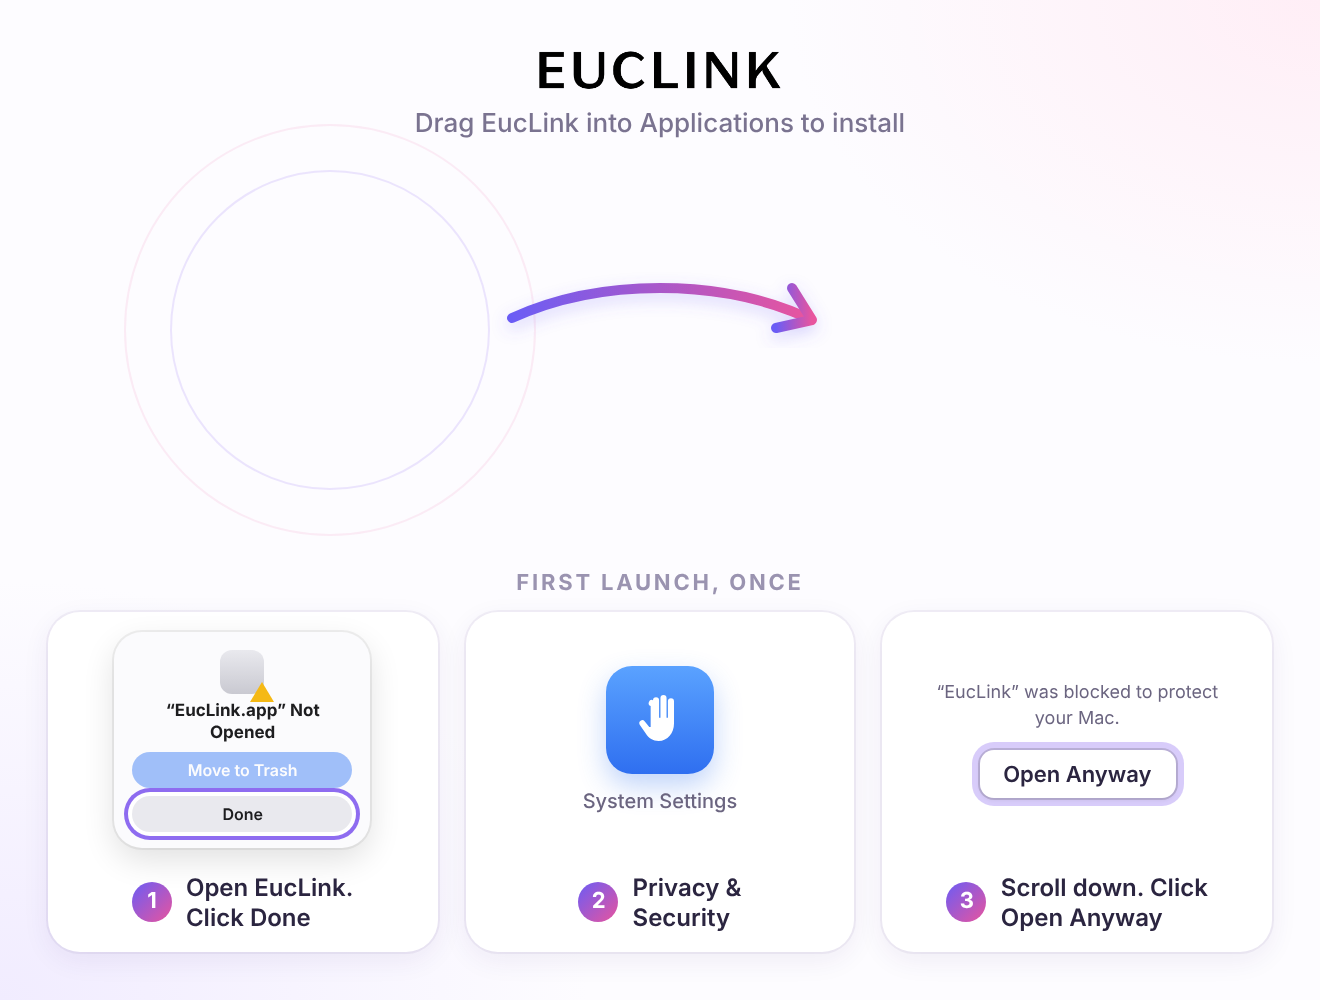
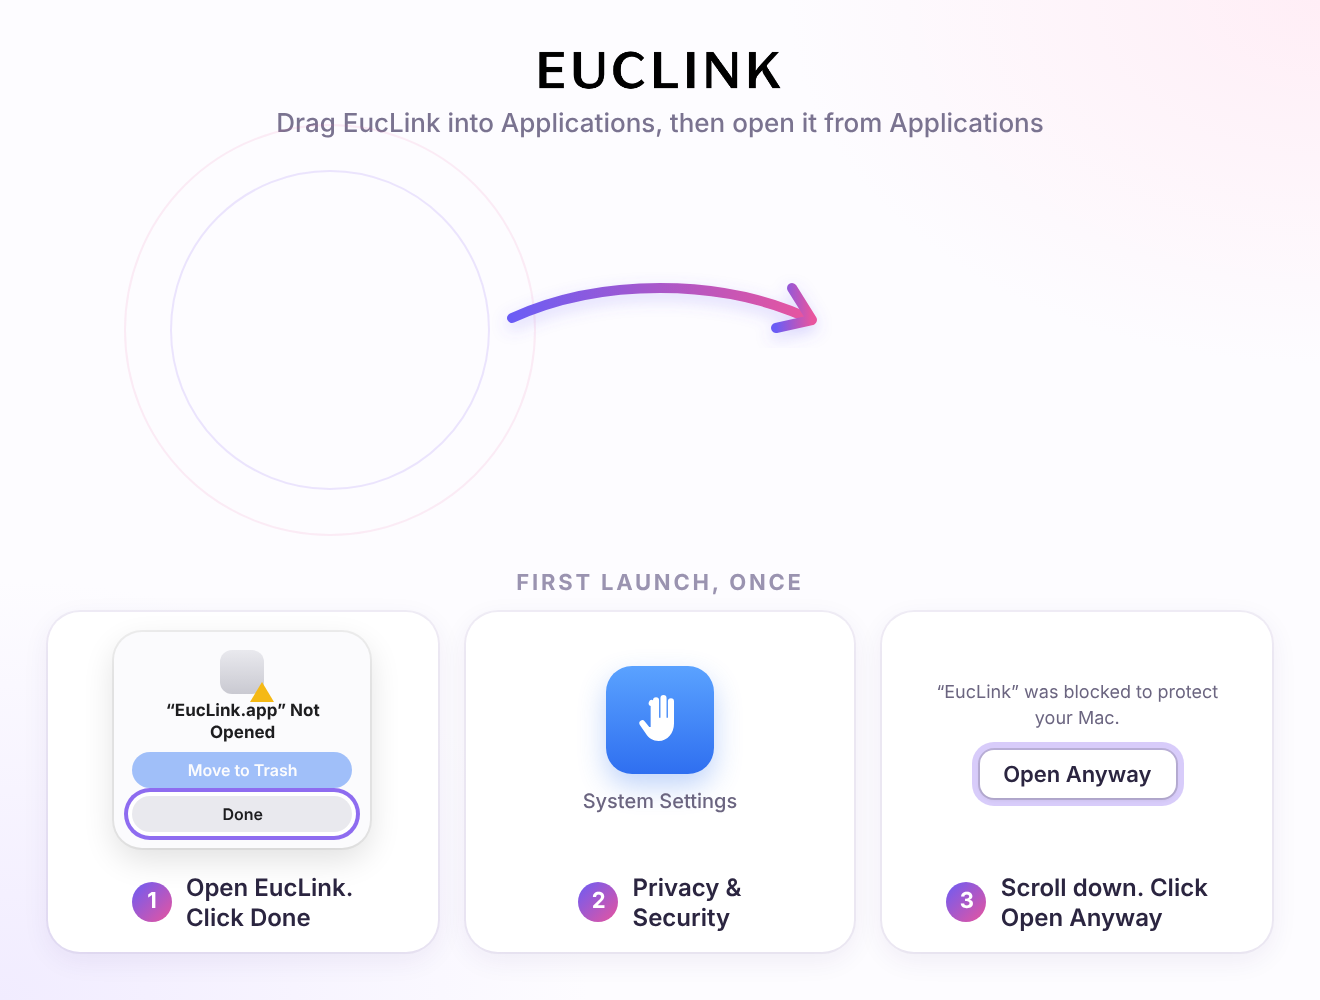
Copy to Applications from a translocated app
Opening EucLink straight from the disk image makes macOS run a hidden read-only
copy (App Translocation). Copy to Applications then tried to copy that temporary
path and failed with no such file. It now asks macOS for the original location,
copies that, removes the download label from the copy so it does not warn twice,
and relaunches it. If the original is gone because the disk image was closed, it
says to drag EucLink into Applications instead. The welcome step explains the case
in plain words, and the disk image window now says to open EucLink from
Applications.

Changed region(s): [[0.2174, 0.093, 0.5591, 0.155], [0.5902, 0.093, 0.7765, 0.155]]

diff --git a/Sources/AppState.swift b/Sources/AppState.swift
@@ -83,6 +83,8 @@ struct GuideContext {
     var inApplications = true
     var appFolder = "/Applications"
     var moveError: String?
+    /// True when macOS runs a hidden temporary copy (App Translocation).
+    var translocated = false
     var bluetooth: PermState = .notDetermined
     var devices: [GuideDevice] = []
     var selectedDevice: String?
@@ -263,19 +265,50 @@ final class AppState: ObservableObject {
         }
     }
 
+    /// True when macOS runs a hidden, read-only temporary copy of the app. That is App
+    /// Translocation: it happens when a downloaded app is opened before it was moved,
+    /// for example straight from the disk image.
+    var isTranslocated: Bool { Bundle.main.bundlePath.contains("/AppTranslocation/") }
+
+    /// Where the app really is. For a translocated app, asks macOS for the original
+    /// location; the temporary copy itself cannot be copied.
+    private func originalBundlePath() -> String {
+        let here = Bundle.main.bundlePath
+        guard isTranslocated,
+              let lib = dlopen("/System/Library/Frameworks/Security.framework/Security", RTLD_LAZY),
+              let sym = dlsym(lib, "SecTranslocateCreateOriginalPathForURL") else { return here }
+        typealias Original = @convention(c) (CFURL, UnsafeMutablePointer<Unmanaged<CFError>?>?) -> Unmanaged<CFURL>?
+        let original = unsafeBitCast(sym, to: Original.self)
+        guard let url = original(Bundle.main.bundleURL as CFURL, nil)?.takeRetainedValue() as URL? else { return here }
+        return url.path
+    }
+
     /// Copies the app to /Applications and relaunches from there. macOS ties the
     /// permissions to the app, so it is best done before granting any.
     func moveToApplications() {
-        let src = Bundle.main.bundlePath
+        let src = originalBundlePath()
         let dst = "/Applications/EucLink.app"
         let fm = FileManager.default
+        guard fm.fileExists(atPath: src), !src.contains("/AppTranslocation/") else {
+            moveError = "EucLink can't copy itself from here. Quit EucLink, open the disk image again, "
+                + "drag EucLink into Applications, and open it from Applications."
+            return
+        }
         do {
             if fm.fileExists(atPath: dst) { try fm.removeItem(atPath: dst) }
             try fm.copyItem(atPath: src, toPath: dst)
         } catch {
-            moveError = "Could not copy to Applications: \(error.localizedDescription)"
+            moveError = "Could not copy to Applications: \(error.localizedDescription). "
+                + "Drag EucLink into Applications in Finder instead."
             return
         }
+        // You already allowed this download once. Without its "downloaded" label the copy
+        // opens without a second Gatekeeper warning.
+        let x = Process()
+        x.executableURL = URL(fileURLWithPath: "/usr/bin/xattr")
+        x.arguments = ["-dr", "com.apple.quarantine", dst]
+        try? x.run()
+        x.waitUntilExit()
         launchAndQuit(dst)
     }
 
@@ -419,6 +452,7 @@ final class AppState: ObservableObject {
         c.inApplications = isInApplications
         c.appFolder = (Bundle.main.bundlePath as NSString).deletingLastPathComponent
         c.moveError = moveError
+        c.translocated = isTranslocated
         c.bluetooth = bluetoothState
         c.devices = pairedDeviceList()
         c.needsAccessibility = guideNeedsAccessibility

diff --git a/Sources/Guide.swift b/Sources/Guide.swift
@@ -305,7 +305,9 @@ struct GuideStepView: View {
                 Card {
                     Label("Copy EucLink to Applications first", systemImage: "exclamationmark.triangle.fill")
                         .font(.system(size: 13, weight: .semibold)).foregroundStyle(Brand.warn)
-                    Text("It is running from \(ctx.appFolder). macOS ties permissions to the app's location, so granting them here and moving it later means granting them again.")
+                    Text(ctx.translocated
+                         ? "You opened EucLink before moving it, so macOS is running a temporary copy. Permissions granted now would be lost. Copy it to Applications first."
+                         : "It is running from \(ctx.appFolder). macOS ties permissions to the app's location, so granting them here and moving it later means granting them again.")
                         .font(.system(size: 12)).foregroundStyle(.secondary)
                         .fixedSize(horizontal: false, vertical: true)
                     Button("Copy to Applications and Relaunch", action: actions.moveToApplications)

diff --git a/dmg/background.html b/dmg/background.html
@@ -31,7 +31,7 @@ body{width:660px;height:500px;font-family:Inter,-apple-system,sans-serif;color:#
 .btn{font-size:11px;font-weight:600;background:#fff;border-radius:7px;padding:5px 12px;box-shadow:0 0 0 1px rgba(0,0,0,.14),0 1px 2px rgba(0,0,0,.08),0 0 0 4px rgba(142,108,240,.35)}
 </style></head><body>
 <img class="logo" src="../docs/images/logo.png">
-<div class="sub">Drag EucLink into Applications to install</div>
+<div class="sub">Drag EucLink into Applications, then open it from Applications</div>
 <div class="rings"><i style="width:160px;height:160px;border-color:rgba(142,108,240,.16)"></i><i style="width:206px;height:206px;border-color:rgba(232,84,158,.10)"></i></div>
 <svg style="position:absolute;left:0;top:0" width="660" height="300">
   <defs><linearGradient id="g" x1="0" x2="1"><stop offset="0" stop-color="#6B5CF5"/><stop offset="1" stop-color="#E8549E"/></linearGradient>

diff --git a/CHANGELOG.md b/CHANGELOG.md
@@ -6,6 +6,18 @@ All notable changes to EucLink are listed here. The format follows
 
 ## [Unreleased]
 
+### Fixed
+
+- Copy to Applications failed with "no such file" when EucLink was opened straight from the
+  disk image. macOS runs such an app from a hidden temporary copy; EucLink now finds the
+  original, copies that, and opens the copy without a second warning. If the disk image is
+  already closed, it says how to drag EucLink into Applications instead.
+- The welcome step explains this case in plain words instead of showing the temporary path.
+
+### Changed
+
+- The disk image window says to open EucLink from Applications, not from the window.
+
 ## [0.4.3] - 2026-11-22
 
 ### Fixed
